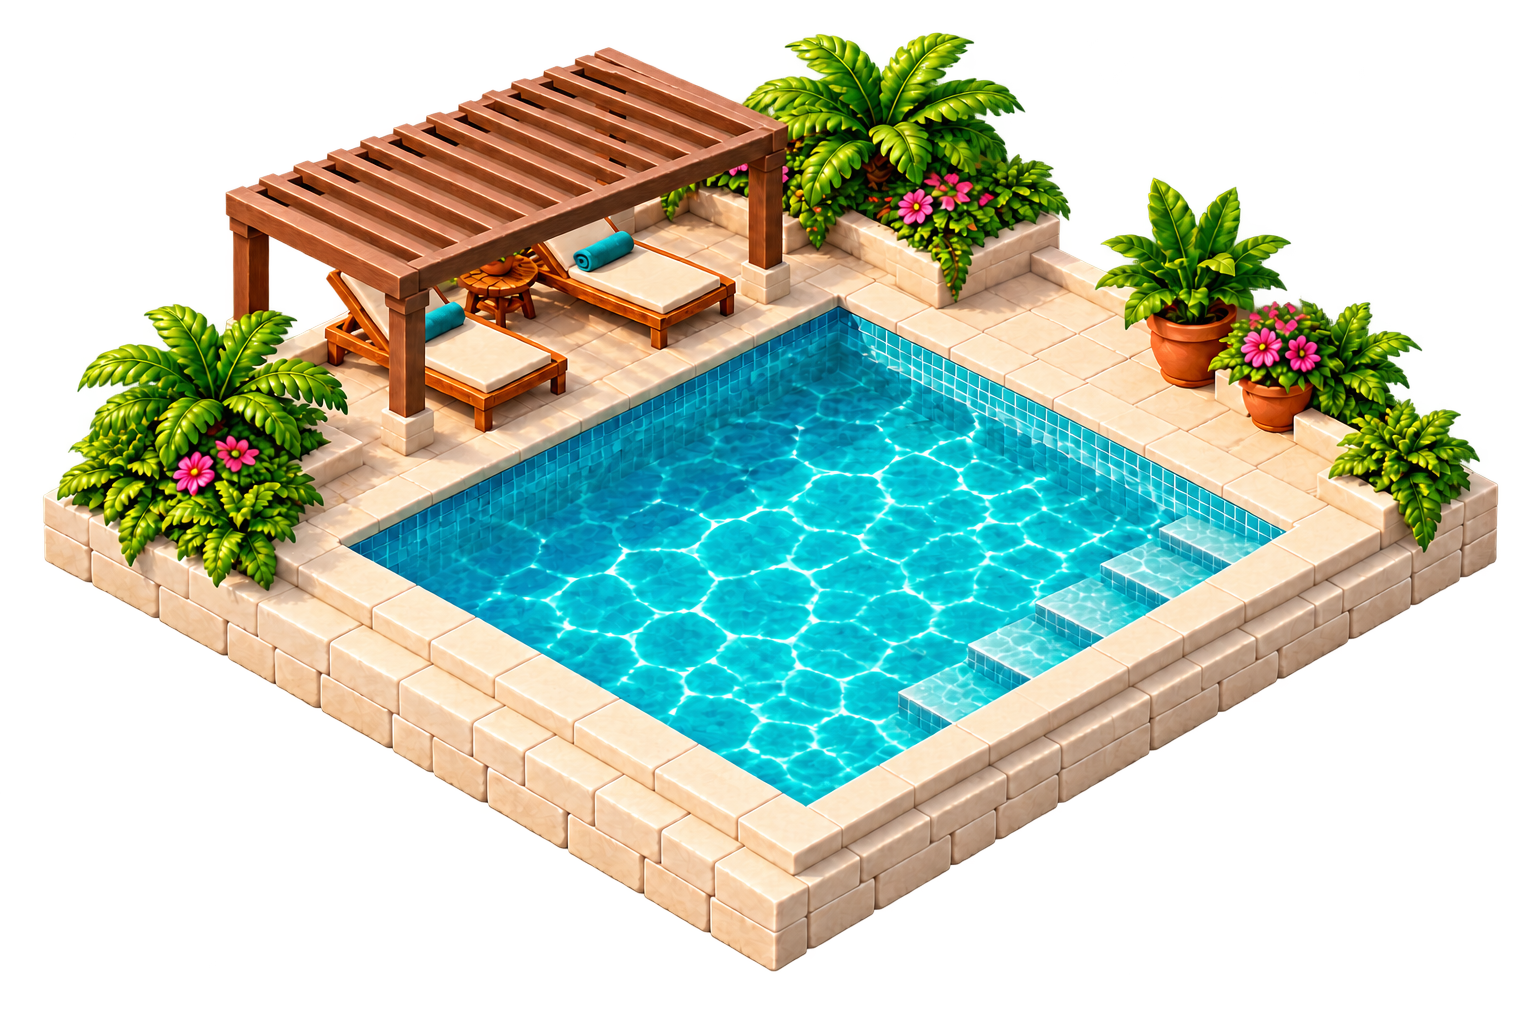
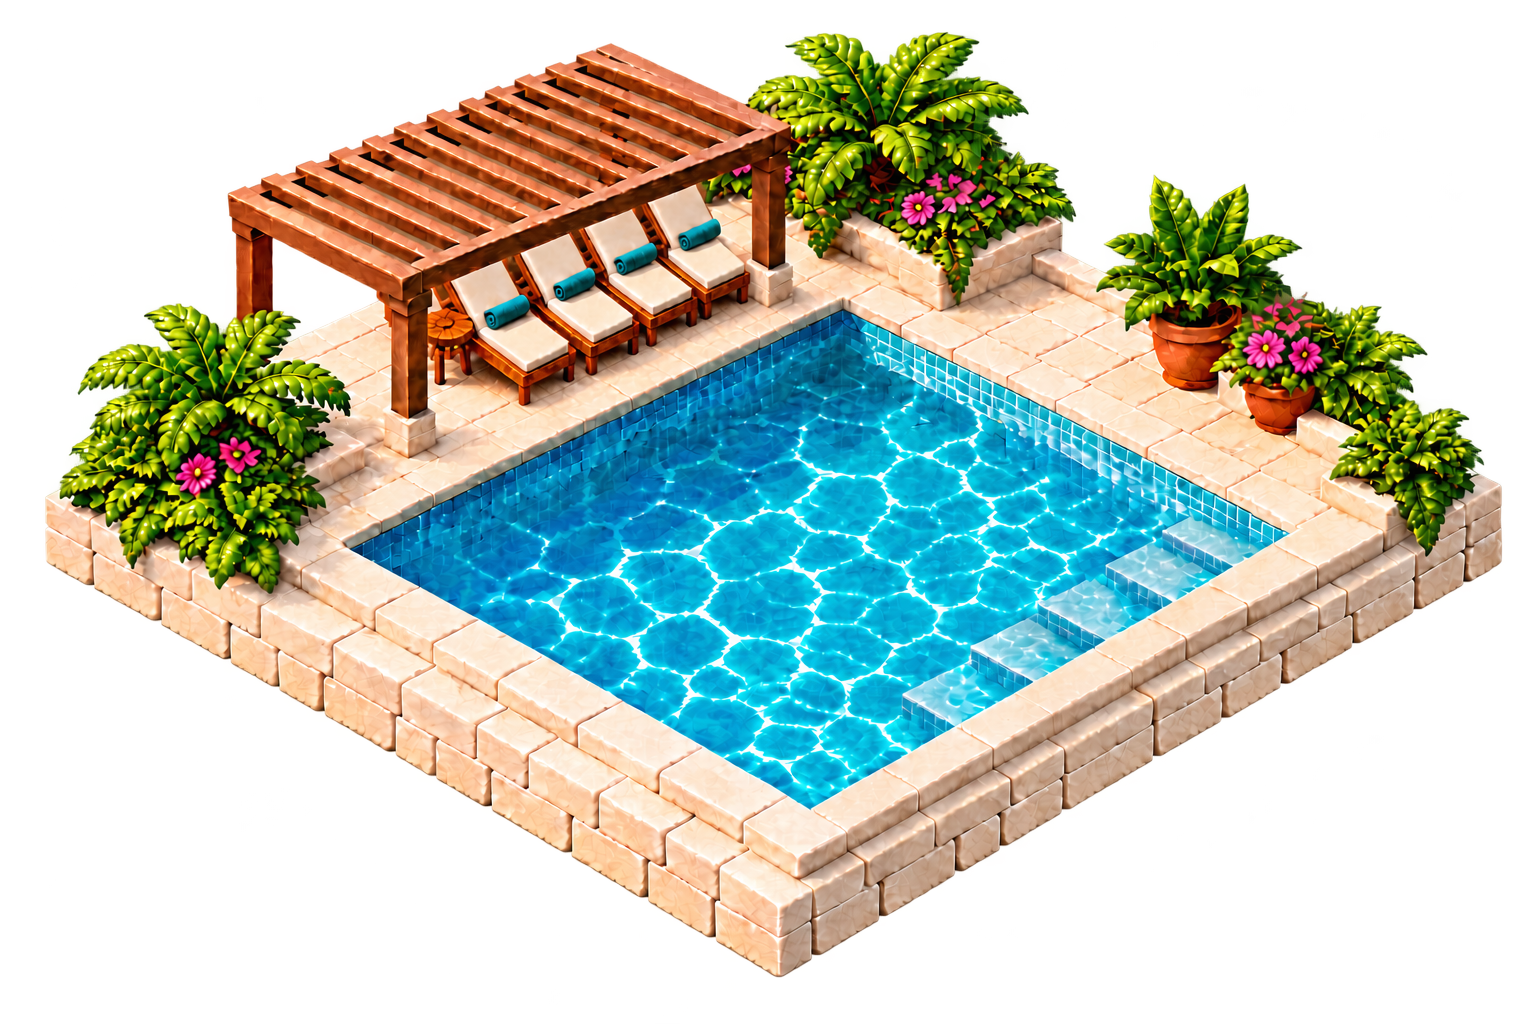
feat: increase lounger count with each upgrade level

Changed region(s): [[0.0312, 0.0312, 1.0, 0.9688], [0.2188, 0.5938, 0.25, 0.625]]

diff --git a/Docs/Art/PoolGeneration.md b/Docs/Art/PoolGeneration.md
@@ -57,3 +57,53 @@ Use case: background-extraction. Image 1 is a finished pool game sprite with inc
 ## Unity import validation
 
 Imported all five textures as single full-rect sprites, 256 pixels per unit, uncompressed RGBA, no mipmaps, maximum size 2048, with custom pivots at their measured front foundation corner. All five sprite anchors verified at world origin with zero error. No scene or prefab modifications were made in this review step. Comparison artifact: `Docs/Art/PoolLevelsPreview.png`.
+
+
+## Progressive sun-lounger count
+
+Built-in image_gen edits of each existing level. L1 remains unchanged with 2 loungers; L2 has3, L3 has4, L4 has5, L5 has6. Lounge furniture was rearranged/narrowed within the existing dry deck. Existing level-specific architecture, colors, plantings, basin, stairs, shading, waterfalls and infinity overflow were constrained to remain as the references. L5 side table moved to the left end to expose all six backrests. Generated geometry is not pixel-identical.
+
+Original filenames, GUIDs, PPU and pivots are retained. No prefab, scene, script or gameplay changes.
+
+### Revision prompts
+
+#### L2
+
+Use case: precise-object-edit. POOL LEVEL2 lounge-count revision. Image1 is the exact original EDIT TARGET. Change ONLY chaise longue sun loungers: their number and, only as needed, their spacing/width within the existing lounge area. Preserve EVERYTHING ELSE: full square 2x2 foundation perimeter and ALL corner pixel coordinates, full original pool basin size/shape/waterline, original deck outline, wall thickness, tiles, stairs/ladder, plants/flowers/pots, side table, roof/umbrella/shade sail geometry/posts/colors, fountain/waterfalls/infinity edge/lights if present, camera, scale, lighting,1536x1024 canvas and placement. No widening the platform, shrinking pool, covering water with deck, relocating plants or changing architecture. All loungers must stand entirely on existing dry deck with feet supported, none in water or outside foundation. Match original detailed stylized3D resort art and exact level-specific chair material/colors, cream cushions and turquoise rolled towels. Keep true transparent background and clean physical silhouette, all empty space alpha0, no haze/glow/castshadow outside object, no people/text/logos. One sprite. Required count EXACTLY THREE (3) individual sun loungers TOTAL, not3extra. Original has2; add precisely1 matching lounger. Arrange three clearly separate complete chairs neatly side-by-side on existing back-left timber deck beneath existing TERRACOTTA PARASOL. Adjust chair spacing slightly if needed; keep original parasol, deck and side table unchanged. Three raised backrests and three separate seat/foot sections, no merged double beds. Final count3.
+
+#### L3
+
+Use case: precise-object-edit. POOL LEVEL3 lounge-count revision. Image1 is the exact original EDIT TARGET. Change ONLY chaise longue sun loungers: their number and, only as needed, their spacing/width within the existing lounge area. Preserve EVERYTHING ELSE: full square 2x2 foundation perimeter and ALL corner pixel coordinates, full original pool basin size/shape/waterline, original deck outline, wall thickness, tiles, stairs/ladder, plants/flowers/pots, side table, roof/umbrella/shade sail geometry/posts/colors, fountain/waterfalls/infinity edge/lights if present, camera, scale, lighting,1536x1024 canvas and placement. No widening the platform, shrinking pool, covering water with deck, relocating plants or changing architecture. All loungers must stand entirely on existing dry deck with feet supported, none in water or outside foundation. Match original detailed stylized3D resort art and exact level-specific chair material/colors, cream cushions and turquoise rolled towels. Keep true transparent background and clean physical silhouette, all empty space alpha0, no haze/glow/castshadow outside object, no people/text/logos. One sprite. Required count EXACTLY FOUR (4) individual sun loungers TOTAL. Replace original2-chair layout with4 clearly separate slightly slimmer matching loungers in ONE tidy row on the SAME back-left dry stone deck UNDER the EXISTING wooden slatted PERGOLA. Fit through reduced chair width/spacing, don't enlarge pergola/deck or alter basin. Four separate raised backrests and four seat/foot sections, each one complete independent chaise. Keep the pergola frame/posts/slats exactly same, no umbrella. Pool submerged right-side steps unchanged. Final count4, no fifth chair.
+
+#### L4
+
+Use case: precise-object-edit. POOL LEVEL4 lounge-count revision. Image1 is the exact original EDIT TARGET. Change ONLY chaise longue sun loungers: their number and, only as needed, their spacing/width within the existing lounge area. Preserve EVERYTHING ELSE: full square 2x2 foundation perimeter and ALL corner pixel coordinates, full original pool basin size/shape/waterline, original deck outline, wall thickness, tiles, stairs/ladder, plants/flowers/pots, side table, roof/umbrella/shade sail geometry/posts/colors, fountain/waterfalls/infinity edge/lights if present, camera, scale, lighting,1536x1024 canvas and placement. No widening the platform, shrinking pool, covering water with deck, relocating plants or changing architecture. All loungers must stand entirely on existing dry deck with feet supported, none in water or outside foundation. Match original detailed stylized3D resort art and exact level-specific chair material/colors, cream cushions and turquoise rolled towels. Keep true transparent background and clean physical silhouette, all empty space alpha0, no haze/glow/castshadow outside object, no people/text/logos. One sprite. Required count EXACTLY FIVE (5) separate individual chaise longue SUN LOUNGERS TOTAL. Replace original2 large-chair layout with5 slimmer matching cream cushioned timber loungers, each with turquoise rolled towel, ONE neat closely spaced row on EXISTING back-left dry stone lounge deck beneath original BROWN TENSIONED SHADE SAILS. It is okay to make chairs modestly narrower to fit, but do not enlarge deck or canopy or shrink basin. Keep original side table near one end if needed, same table design. Five distinct backrests plus five separate seat/foot sections, no double beds or merged cushions. Preserve original THREE WATERFALL SPOUTS and grey back-right wall, underwater stairs, all greenery. Do not cover waterfall or poolwater with furniture. Final count5, one sprite.
+
+#### L5
+
+Use case: precise-object-edit. POOL LEVEL5 lounge-count revision. Image1 is the exact original EDIT TARGET. Change ONLY chaise longue sun loungers: their number and, only as needed, their spacing/width within the existing lounge area. Preserve EVERYTHING ELSE: full square 2x2 foundation perimeter and ALL corner pixel coordinates, full original pool basin size/shape/waterline, original deck outline, wall thickness, tiles, stairs/ladder, plants/flowers/pots, side table, roof/umbrella/shade sail geometry/posts/colors, fountain/waterfalls/infinity edge/lights if present, camera, scale, lighting,1536x1024 canvas and placement. No widening the platform, shrinking pool, covering water with deck, relocating plants or changing architecture. All loungers must stand entirely on existing dry deck with feet supported, none in water or outside foundation. Match original detailed stylized3D resort art and exact level-specific chair material/colors, cream cushions and turquoise rolled towels. Keep true transparent background and clean physical silhouette, all empty space alpha0, no haze/glow/castshadow outside object, no people/text/logos. One sprite. Required count EXACTLY SIX (6) individual matching premium gold-framed cream-cushioned chaise longue SUN LOUNGERS TOTAL, not6extra. Original has2. Arrange SIX clearly separate slender loungers in one closely spaced diagonal row on SAME back-left dry stone lounge deck beneath existing ANTHRACITE SHADE SAILS. Slimmer chairs permitted to fit within same lounge area, do not enlarge platform/shade roof or reduce poolwater. Each chair has a distinct raised backrest, one turquoise towel and separate seat/foot section: SIX backrests, SIX towels, SIX independent seats; no double beds or merged furniture. Preserve gold posts, original small gold side table, pearl-white marble walls, SINGLE broad gold-framed rear waterfall, front infinity overflow, underwater stairs/lights, plants exactly. All chair feet on existing dry deck, none onwater. Final count6, one sprite.
+
+#### L3 correction
+
+Use case: precise-object-edit. Fix COUNT ONLY on this PoolLevel3 generated sprite. There are currently FIVE loungers. REMOVE ONLY the LEFTMOST lounger, the one with turquoise towel centered near pixel(378,347), seat near(434,393), partly hidden by front-left pergola post. Restore original pale stone deck under that removed chair. KEEP the other FOUR loungers exactly as they are (towels near x460,560,650,730) and do NOT add any new chair. End result exactly FOUR individual loungers total under the same pergola. Preserve original pergola/post locations, pool/deck/planters/stairs/side table, all colors, entire footprint,1536x1024 placement/camera and genuine transparent background. No other edits, no water/architecture changes, no people/text/logo.
+
+#### L4 correction
+
+Use case: precise-object-edit. Fix COUNT ONLY on this PoolLevel4 generated sprite. It currently contains SIX chaise loungers; required exactly FIVE. REMOVE ONLY the LEFTMOST/frontmost lounger, behind the front-left sail post: turquoise towel centered near pixel(382,360), cream seat ending near(470,415). Restore pale stone deck in its place and leave the post and foliage/table untouched. KEEP the remaining FIVE chairs as they are, with turquoise towels near x450,515,575,640,705. No additional furniture. End result precisely FIVE separate complete loungers. Preserve original brown tension shade sails and all posts, three-spout fountain, pool basin/waterline/stairs, foundation corners, plants/table, camera/placement/1536x1024 canvas. Genuine clean transparent background, no haze/glow or shadows outside silhouette. No other modifications.
+
+#### L5 correction
+
+Use case: precise-object-edit. PoolL5 tiny furniture repair ONLY. This image has SIX chair seats but the SECOND chair from left is missing its raised backrest/towel, partly hidden by side table. Repair ONLY that incomplete SECOND chaise: its cream foot cushion is near(490,365), add a matching narrow raised cream backrest with small cream pillow and ONE turquoise rolled towel above it near(420,300), aligned with the neighboring gold-framed loungers. If the small gold side table blocks that backrest, shift ONLY the existing same table slightly to the far left end of the row next to the greenery, do not remove it. Keep existing FIVE other complete loungers unchanged. Final precisely SIX COMPLETE separate loungers, six backrests and six towels. Do not add a seventh seat. Preserve ALL original pool L5 architecture, anthracite sails/gold posts, water/fountain/infinity overflow/underwater lights/steps, plants, tile/deck/perimeter, exact foundation footprint/canvas/camera and1536x1024 placement. Genuinely transparent background no haze. No other edits.
+
+
+## L3 pergola clearance correction
+
+Built-in image_gen edit. Shifted/tightened the four-chair row left and made chairs slightly narrower/shorter to leave the right pergola footing unobstructed. Kept original posts/basin, import metadata, prefabs and scenes.
+
+Final layout prompt:
+
+Use case: precise-object-edit. FINAL SMALL CLEARANCE FIX ONLY. Image1 already has correct FOUR chairs. Keep EXACTLY those FOUR chairs, no additions/deletions. Rightmost chair STILL touches square stone base of right pergola post at(767,285). Compress ONLY the four-chair furniture cluster horizontally by about15%, anchored at its LEFT boundary x440, so its rightmost gold/wood chair frame ends at x725 instead of x775. Shift the last three chairs progressively LEFT to close gaps; make the chair bodies slightly narrower/shorter if necessary. All four remain distinct. The entire stone footing of the right pergola post must be UNOBSTRUCTED with at least25px EMPTY TILE gap between its LEFT edge aroundx750 and the rightmost furniture edge atx725, over the whole chair/post contact area. Do not move the post or its base. Keep first chair and leftmost clearance from left post, side table and everything else unchanged. Preserve original precise foundation, basin, pergola, plants, water, stairs, canvas1536x1024, camera, style and genuine transparency. Change ONLY furniture footprint/spacing to eliminate right-column intersection. Final exactly FOUR visible backrests and FOUR turquoise towels, all legs on dry deck.
+
+Alpha cleanup prompt:
+
+Use case: background-extraction. Only correct ALPHA/background of this PoolLevel3 sprite. The four loungers now have correct spacing; preserve EXACTLY the existing FOUR-chair geometry and clear gap before right pergola footing. Preserve all RGB appearance of physical pool/pergola/chairs/plants/tiles/water/steps, camera/1536x1024canvas/footprint and placement. Remove the ENTIRE diffuse brown/green/gray glow/haze outside the physical sprite silhouette and replace all outside space with actual fully transparent ALPHA=0, including every canvas border/corner and holes outside structure. No low-opacity colored film. Solid sprite surfaces should stay opaque, smooth antialiased edges. No added or moved objects, no furniture changes, no text. This is clean background extraction ONLY, not a redesign. Genuine transparent cutout for Unity.
